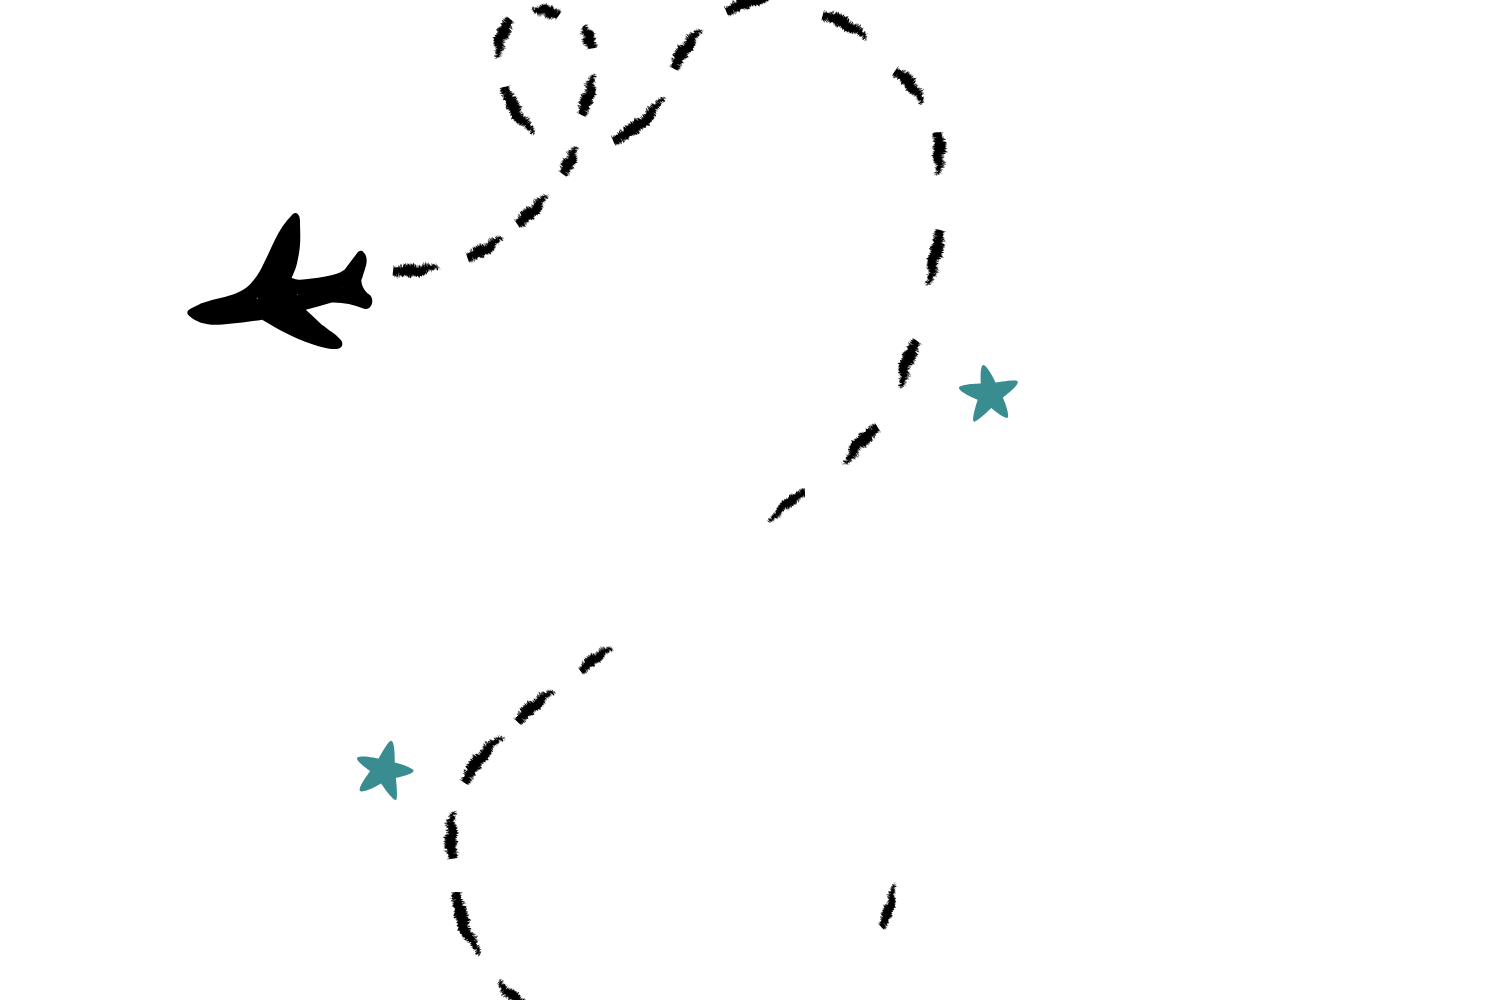
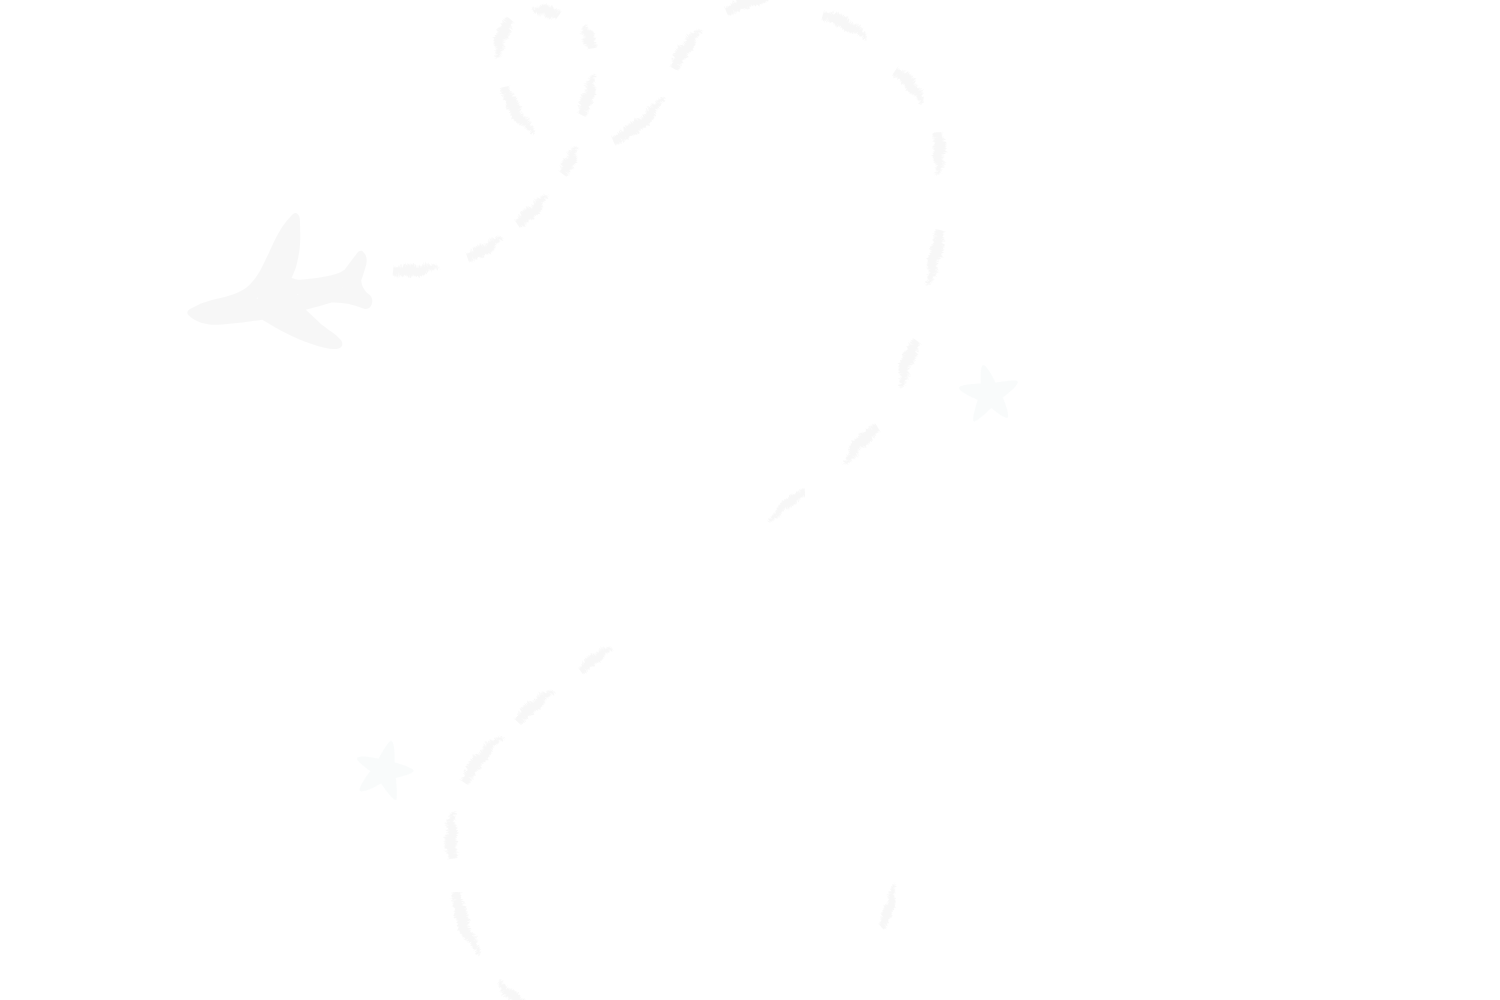
feat: add contato section

diff --git a/src/App.scss b/src/App.scss
@@ -46,6 +46,7 @@
     flex-direction: column;
     background-position-y: center;
     flex-wrap: wrap;
+
     h1 {
         font-family: "BreeSerif-Regular";
         font-style: normal;
@@ -65,12 +66,87 @@
             width: 350px;
             height: 350px;
             border-radius: 100%;
-            border: 20px solid rgba(131, 133, 43, 0.56);;
+            border: 20px solid rgba(131, 133, 43, 0.56);
+            ;
         }
 
         span {
-            width: 500px;
-            line-height: 25px;
-        } 
+            width: 700px;
+            line-height: 29px;
+        }
+    }
+}
+
+.contato {
+    background-image: url("./assets/img/airplane\ fundo.png");
+    width: 100%;
+    height: 100%;
+    background-repeat: no-repeat;
+    background-size: 500px;
+    display: flex;
+    flex-direction: column;
+    flex-wrap: wrap;
+    margin-top: 0;
+    margin-bottom: 0;
+    margin-right: 0;
+    margin-left: 15px;
+
+    h1 {
+        font-family: "BreeSerif-Regular";
+        font-style: normal;
+        font-weight: 400;
+        font-size: 40px;
+        padding: 0px;
+        margin: 0px;
+        opacity: 1;
+    }
+
+    form {
+        display: flex;
+        flex-direction: column;
+        padding: 15px;
+        align-items: center;
+
+        label {
+            display: flex;
+            align-items: start;
+            text-align: left;
+            width: 97%;
+            margin-top: 10px;
+            margin-left: 5px;
+            margin-bottom: 2px;
+        }
+
+
+        input {
+            height: 30px;
+            border: none;
+            background-color: #D9D9D9;
+            border-radius: 8px;
+            padding: 5px;
+            width: 97%;
+        }
+
+        textarea {
+            border: none;
+            background-color: #D9D9D9;
+            border-radius: 8px;
+            padding: 5px;
+            width: 97%;
+        }
+
+        button {
+            display: flex;
+            justify-content: center;
+            align-items: center;
+            width: 300px;
+            margin: 15px 0px;
+            padding: 10px 0px;
+            border: none;
+            border-radius: 8px;
+            background-color: rgba(47, 89, 115, 0.64);
+            font-family: "Montserrat-Regular";  
+            font-size: 15px;
+        }
     }
 }

diff --git a/src/App.js b/src/App.js
@@ -5,7 +5,7 @@ import Passeios from "./components/Passeios/Passeios";
 import paoDeAcucarImage from "./assets/img/agustin-diaz-gargiulo-7F65HDP0-E0-unsplash.jpg";
 import cityTourImage from "./assets/img/samuel-wesley-silva-Lr2K2hAbAH0-unsplash.jpg";
 import parqueLageImage from "./assets/img/ondrej-bocek-3q0YQQJMkjw-unsplash.jpg";
-import ownerBlog from "./assets/img/denys-nevozhai-z0nVqfrOqWA-unsplash.jpg"
+import ownerBlog from "./assets/img/denys-nevozhai-z0nVqfrOqWA-unsplash.jpg";
 function App() {
   return (
     <div className="App">
@@ -62,6 +62,30 @@ function App() {
             Suspendisse vitae accumsan dolor.
           </span>
           <img src={ownerBlog} alt="" />
+        </div>
+      </section>
+
+      <section className="contato" id="contato">
+        <h1>Contato</h1>
+        <div className="contato-content">
+          <form action="">
+            <label htmlFor="">Nome</label>
+            <input type="text" placeholder="nome" />
+
+            <label htmlFor="">E-mail</label>
+            <input type="email" placeholder="e-mail" />
+
+            <label htmlFor="">Telefone</label>
+            <input type="phone" placeholder="telefone" />
+
+            <label htmlFor="">Passeio de Interesse</label>
+            <input type="text" placeholder="passeio" />
+
+            <label htmlFor="">Mensagem</label>
+            <textarea rows="5" cols="50"></textarea>
+
+            <button>enviar</button>
+          </form>
         </div>
       </section>
     </div>
